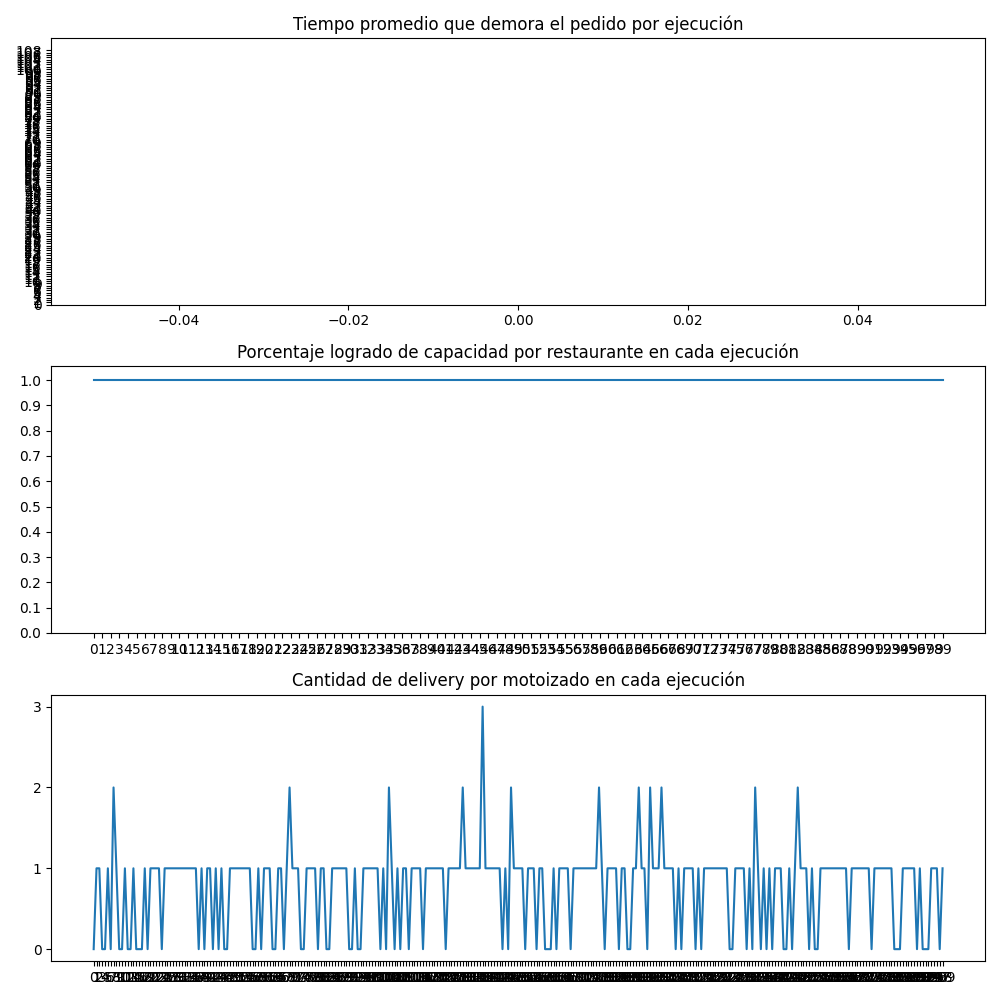
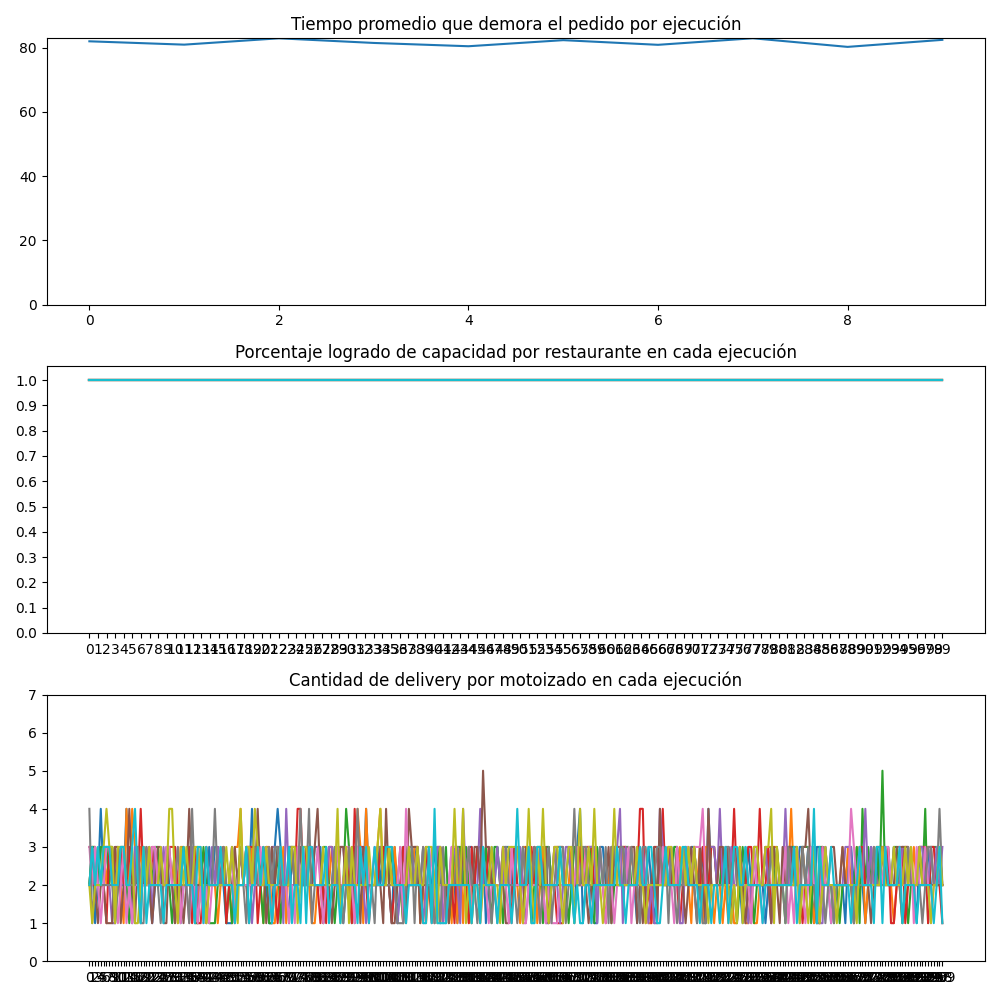
update

diff --git a/main_nearer.py b/main_nearer.py
@@ -596,7 +596,7 @@ def print_general_status(steps, nrestaurants, ndistributors):
     axes[0].set_title('Tiempo promedio que demora el pedido por ejecución')
     x = np.arange(steps)
     axes[0].plot(x, food_timegeneral)
-    axes[0].set_yticks(np.arange(0, max(food_timegeneral)+1, 1))
+    axes[0].set_yticks(np.arange(0, max(food_timegeneral)+1, 30))
 
     #restaurant
     axes[1].set_title('Porcentaje logrado de capacidad por restaurante en cada ejecución')
@@ -614,7 +614,7 @@ def print_general_status(steps, nrestaurants, ndistributors):
         axes[2].plot(x, distributor)
         max_delivery = max(max_delivery, max(distributor))
         
-    axes[2].set_yticks(np.arange(0, max_delivery+1))
+    axes[2].set_yticks(np.arange(0, max_delivery+1, 8))
     axes[2].set_xticks(x)
 
     fig.tight_layout()
@@ -626,7 +626,9 @@ def print_general_status(steps, nrestaurants, ndistributors):
 # =====
 def main():
     global food_list, restaurant_list, distributor_list, agentList, graph, graphNodes
-    
+
+    start_time = time.time()
+
     ncustomers = 2000
     nrestaurants = 100
     ndistributors = 300
@@ -641,7 +643,7 @@ def main():
     #proportionRestaurant = [(0.7, 5), (0.3, 10)]
     proportionRestaurant = [(1.0, 10)]
     
-    steps = 1
+    steps = 10
     for _ in range(steps): #10000 veces correr el programa
         food_list = []
         restaurant_list = []
@@ -649,7 +651,7 @@ def main():
         agentList = []
         graph = []
         graphNodes = []
-        app = App(100, 0.3, True)    
+        app = App(45, 0.3, True)
         ncustomers = 2000
         nrestaurants = 100
         ndistributors = 300
@@ -665,7 +667,8 @@ def main():
         # print('averagefood', averagefood)
         # print('averagerestaurant', averagerestaurant)
         # print('averagedistributor', averagedistributor)
-    
+
+    print("Tiempo de ejecución:", time.time() - start_time)
     #Imprimir gráficos
     print_general_status(steps, nrestaurants, ndistributors)
     #print(average_list)

diff --git a/main.py b/main.py
@@ -595,7 +595,7 @@ def print_general_status(steps, nrestaurants, ndistributors):
     axes[0].set_title('Tiempo promedio que demora el pedido por ejecución')
     x = np.arange(steps)
     axes[0].plot(x, food_timegeneral)
-    axes[0].set_yticks(np.arange(0, max(food_timegeneral)+1, 1))
+    axes[0].set_yticks(np.arange(0, max(food_timegeneral)+1, 20))
 
     #restaurant
     axes[1].set_title('Porcentaje logrado de capacidad por restaurante en cada ejecución')
@@ -613,7 +613,7 @@ def print_general_status(steps, nrestaurants, ndistributors):
         axes[2].plot(x, distributor)
         max_delivery = max(max_delivery, max(distributor))
         
-    axes[2].set_yticks(np.arange(0, max_delivery+1))
+    axes[2].set_yticks(np.arange(0, 8, 1))
     axes[2].set_xticks(x)
 
     fig.tight_layout()
@@ -625,7 +625,9 @@ def print_general_status(steps, nrestaurants, ndistributors):
 # =====
 def main():
     global food_list, restaurant_list, distributor_list, agentList, graph, graphNodes
-    
+
+    start_time = time.time()
+
     ncustomers = 2000
     nrestaurants = 100
     ndistributors = 300
@@ -640,7 +642,7 @@ def main():
     #proportionRestaurant = [(0.7, 5), (0.3, 10)]
     proportionRestaurant = [(1.0, 10)]
     
-    steps = 1
+    steps = 10
     for _ in range(steps): #10000 veces correr el programa
         food_list = []
         restaurant_list = []
@@ -648,7 +650,7 @@ def main():
         agentList = []
         graph = []
         graphNodes = []
-        app = App(100, 0.3, True)    
+        app = App(45, 0.3, True)
         ncustomers = 2000
         nrestaurants = 100
         ndistributors = 300
@@ -664,7 +666,8 @@ def main():
         # print('averagefood', averagefood)
         # print('averagerestaurant', averagerestaurant)
         # print('averagedistributor', averagedistributor)
-    
+
+    print("Tiempo de ejecución:", time.time() - start_time)
     #Imprimir gráficos
     print_general_status(steps, nrestaurants, ndistributors)
     #print(average_list)
